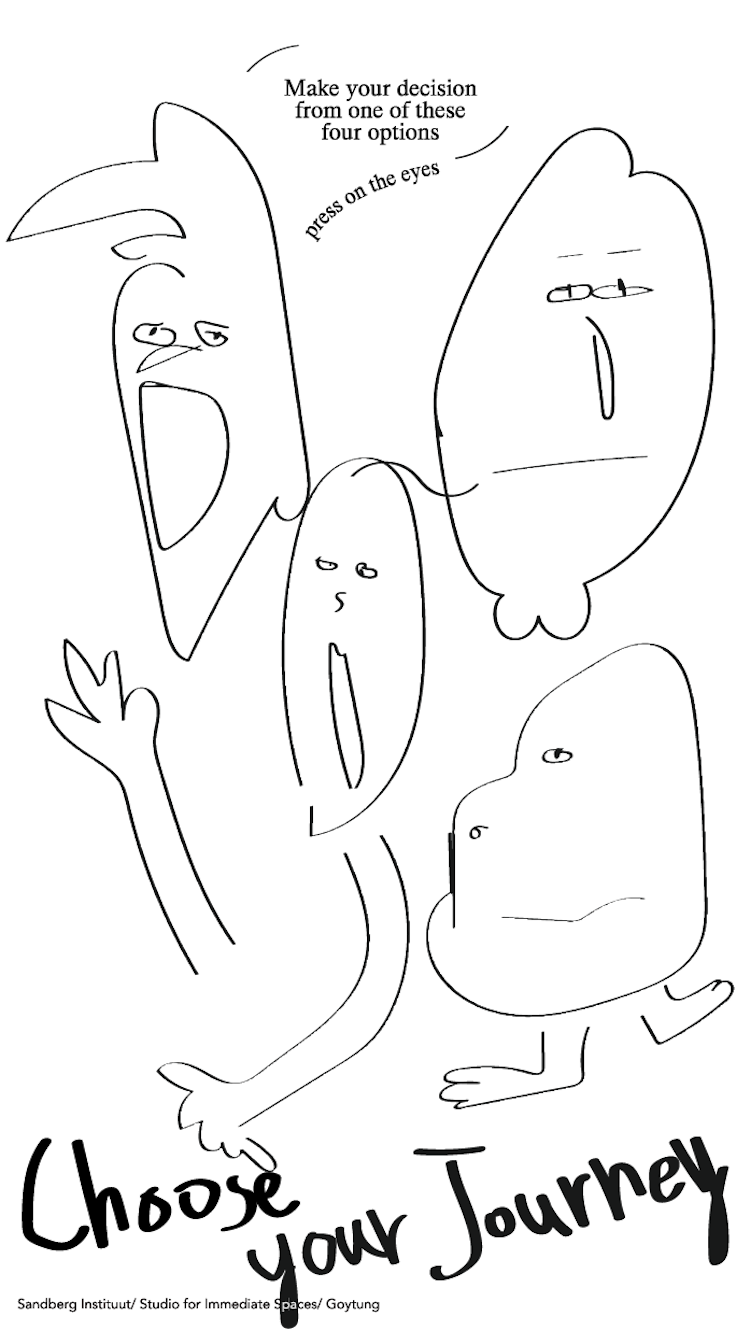
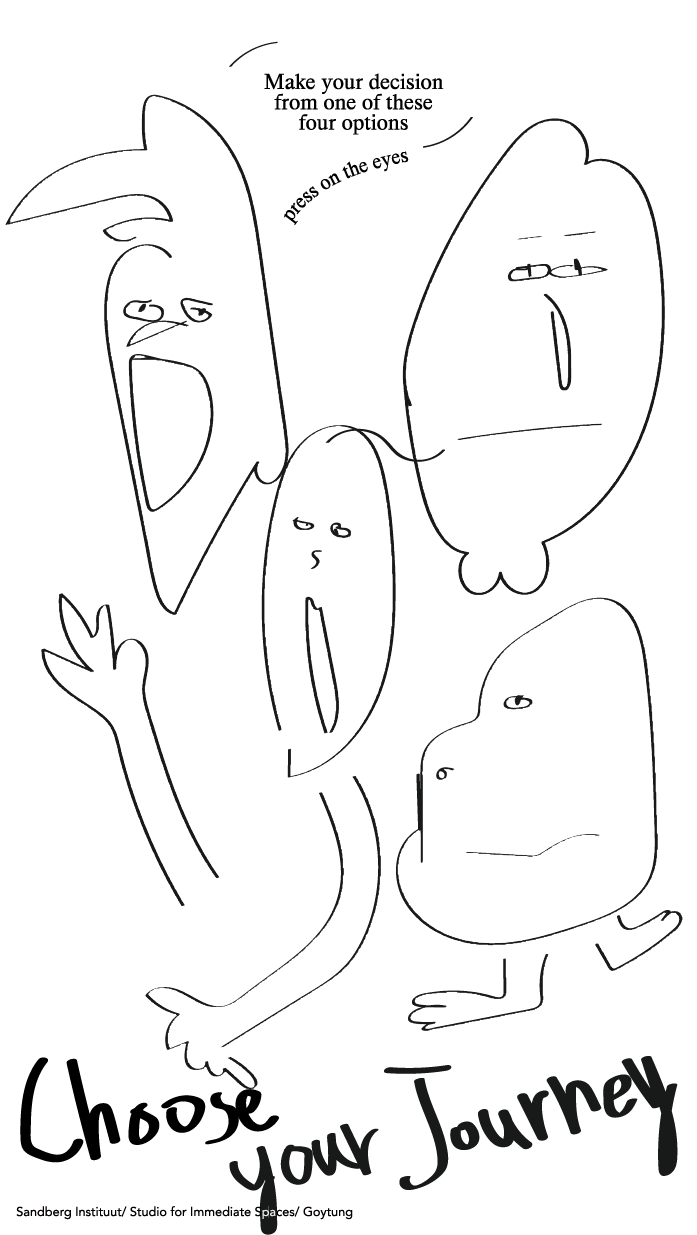
responsive image map

diff --git a/index.html b/index.html
@@ -4,11 +4,18 @@
 		<link rel="stylesheet" href="stylesheet.css">
 	</header>
 	<body>
-		<div>
-<map id="index" name="index"><area shape="poly" alt="" title="" coords="586,162,586,144,580,132,564,120,540,120,510,142,476,184,432,274,398,380,414,452,428,518,442,536,450,544,464,552,466,552,460,564,458,576,464,582,470,588,476,596,488,590,498,582,498,572,510,590,524,594,542,586,548,568,546,554,542,542,582,518,606,490,628,458,648,412,658,354,662,296,652,228,644,194,620,164,600,160" href="a.html" target="" /><area shape="poly" alt="" title="" coords="178,102,214,132,236,160,254,214,282,412,282,462,280,476,264,484,254,472,254,456,220,524,172,610,148,586,100,322,122,244,102,228,146,214,168,216,156,198,134,194,72,206,6,224,-4,224,34,184,86,158,134,148,148,148,142,118,144,94,158,94" href="b.html" target="" /><area shape="poly" alt="" title="" coords="332,422,304,436,272,500,260,630,282,736,290,752,290,776,328,758,362,724,390,654,392,554,380,460,354,428,344,424" href="c.html" target="" /><area shape="poly" alt="" title="" coords="610,598,626,614,636,636,652,722,656,856,642,890,614,912,494,948,440,938,402,902,392,860,410,830,420,828,422,756,438,734,482,716,480,690,502,648,580,598,592,594" href="d.html" target="" /></map>
-<img src="index.png" usemap="#index" class="background">
-		</div>
-	
+		<p><img src="index.png" usemap="#map" class="background" >
+		</p>
+		<map id="map" name="map"><area shape="poly" alt="" title="" coords="522,132,510,144,488,174,468,206,438,258,422,296,406,344,402,370,404,400,416,468,430,518,442,540,458,550,464,552,458,570,462,584,468,588,476,594,488,590,498,576,506,588,514,592,526,592,540,586,546,572,548,546,542,540,564,530,594,504,624,470,640,432,652,396,662,354,662,294,656,240,644,194,628,170,610,158,584,160,584,136,568,120,554,118,532,124" href="a.html" target="" /><area shape="poly" alt="" title="" coords="212,130,230,148,246,182,256,220,266,304,276,370,284,418,286,456,278,480,264,486,258,474,250,470,234,504,212,540,178,606,172,614,160,606,146,546,130,466,114,380,104,322,106,280,114,262,140,242,136,238,124,242,114,238,110,234,104,228,132,216,158,218,166,220,172,220,162,206,154,198,138,192,108,200,58,212,-6,228,6,222,14,208,32,184,66,164,94,154,134,148,142,150,144,120,146,102,150,92,168,96,202,116" href="b.html" target="" /><area shape="poly" alt="" title="" coords="376,450,384,488,390,528,394,584,392,628,386,674,374,708,340,750,324,762,300,778,288,776,288,744,270,706,264,646,262,598,268,536,276,494,286,462,320,424,330,422,348,424,362,436" href="c.html" target="" /><area shape="poly" alt="" title="" coords="606,600,622,606,636,632,648,662,652,746,654,824,654,862,638,894,618,906,580,926,526,942,476,944,438,932,410,914,408,908,398,892,394,868,402,844,418,826,418,762,426,746,442,730,470,722,480,712,482,690,488,668,506,644,538,620,566,608,586,596,586,596" href="d.html" target="" />
+
+</div>
+<script src="http://ajax.googleapis.com/ajax/libs/jquery/1.11.0/jquery.min.js"></script>
+<script type="text/javascript" src="imageMapResizer.min.js"></script>
+<script type="text/javascript">
+
+		$('map').imageMapResize();
+
+	</script>
 	</body>
 </html>
 

diff --git a/imageMapResizer.min.js b/imageMapResizer.min.js
@@ -1,0 +1,8 @@
+/*! Image Map Resizer (imageMapResizer.min.js ) - v1.0.10 - 2019-04-10
+ *  Desc: Resize HTML imageMap to scaled image.
+ *  Copyright: (c) 2019 David J. Bradshaw - dave@bradshaw.net
+ *  License: MIT
+ */
+
+!function(){"use strict";function r(){function e(){var r={width:u.width/u.naturalWidth,height:u.height/u.naturalHeight},a={width:parseInt(window.getComputedStyle(u,null).getPropertyValue("padding-left"),10),height:parseInt(window.getComputedStyle(u,null).getPropertyValue("padding-top"),10)};i.forEach(function(e,t){var n=0;o[t].coords=e.split(",").map(function(e){var t=1==(n=1-n)?"width":"height";return a[t]+Math.floor(Number(e)*r[t])}).join(",")})}function t(e){return e.coords.replace(/ *, */g,",").replace(/ +/g,",")}function n(){clearTimeout(d),d=setTimeout(e,250)}function r(e){return document.querySelector('img[usemap="'+e+'"]')}var a=this,o=null,i=null,u=null,d=null;"function"!=typeof a._resize?(o=a.getElementsByTagName("area"),i=Array.prototype.map.call(o,t),u=r("#"+a.name)||r(a.name),a._resize=e,u.addEventListener("load",e,!1),window.addEventListener("focus",e,!1),window.addEventListener("resize",n,!1),window.addEventListener("readystatechange",e,!1),document.addEventListener("fullscreenchange",e,!1),u.width===u.naturalWidth&&u.height===u.naturalHeight||e()):a._resize()}function e(){function t(e){e&&(!function(e){if(!e.tagName)throw new TypeError("Object is not a valid DOM element");if("MAP"!==e.tagName.toUpperCase())throw new TypeError("Expected <MAP> tag, found <"+e.tagName+">.")}(e),r.call(e),n.push(e))}var n;return function(e){switch(n=[],typeof e){case"undefined":case"string":Array.prototype.forEach.call(document.querySelectorAll(e||"map"),t);break;case"object":t(e);break;default:throw new TypeError("Unexpected data type ("+typeof e+").")}return n}}"function"==typeof define&&define.amd?define([],e):"object"==typeof module&&"object"==typeof module.exports?module.exports=e():window.imageMapResize=e(),"jQuery"in window&&(window.jQuery.fn.imageMapResize=function(){return this.filter("map").each(r).end()})}();
+//# sourceMappingURL=imageMapResizer.map

diff --git a/stylesheet.css b/stylesheet.css
@@ -18,6 +18,7 @@ bottom:500px;
 
 .background {
 margin-left:80px;
+height:100%;
 }
 
 
